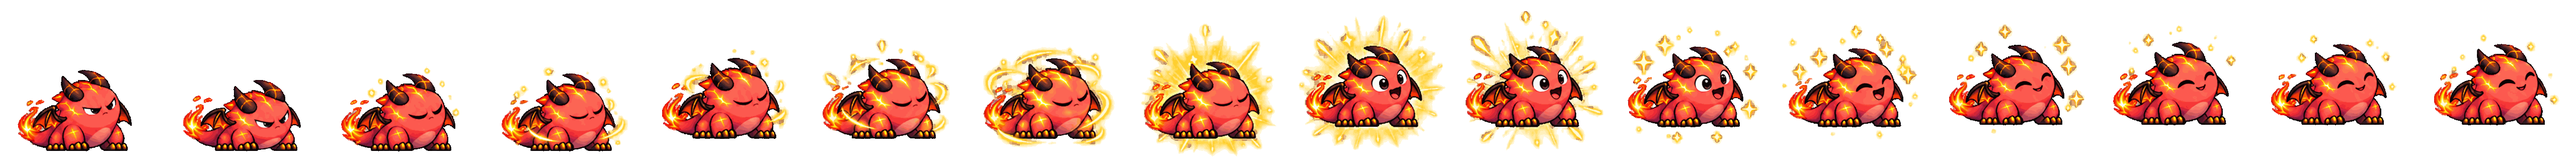
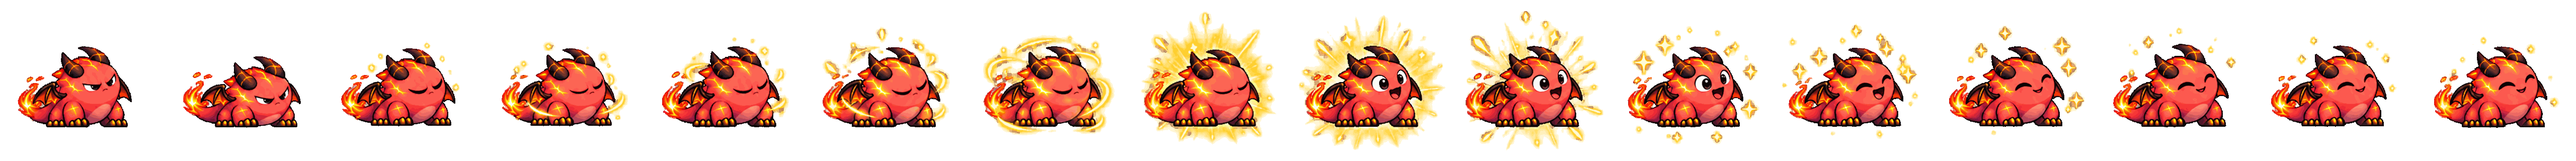
Pin the fireball and the celebration to their own ground line
The Cinderling's fireball climbed 43px over its sixteen frames - the pet
floating up off its own ground line and dropping back when the idle returned.
The cause is in the pack: it arrives as a 4x4 grid, and each row draws the
dragon about 7px higher than the last. Frames inside a row agree to a pixel;
the rows step. The Blazewyrm's celebration has it too, 55px of it, which is
why it ended some 37 CSS px above where it began.

Both sheets are anchored now, and the same check clears the rest: the
Blazewyrm's own fireball drifts 2px, the anchored baby idle 5px, the
Cinderling's celebration 10px. The flame stomp and the flying swoop drift by
design - they rear and land, they fly - and are untouched.

Measure this by cross-correlating each frame's body against the first frame's,
not by its lowest pixel. A lowest pixel is a toe on one frame and a smoke puff
or a ray on the next: it said the celebration's burst frames sat 30px low when
their bodies were exactly in line. Correcting on that reading would have
dragged the burst down and called it a fix.

What steps between rows is corrected; what moves inside a row is left as
drawn. The shifts are applied to the palette indices, so both sheets keep
their palettes untouched and get slightly smaller. Re-measured on screen after
anchoring: the fireball holds its ground line to 1.5 CSS px across the whole
clip, with the median exactly on the idle's; the celebration sits on the
[…]

diff --git a/index.html b/index.html
@@ -1377,7 +1377,7 @@ const SKILLS = {
         order:    [0, 1,2,4,  1,2,4,  1,2,4,  3,5,3,5,  6,  7,  8,  9, 10, 11, 12, 13, 14, 15],
         durations:[380, 300,270,245, 225,205,185, 160,145,130, 185,150,150,270,
                    150,230,260,180,190,260,170,170,190,280],
-        aspect:1.3125, scale:1.23, dx:-5, dy:-6 } },
+        aspect:1.3125, scale:1.23, dx:-5, dy:-4.2 } },
     { id:"fireball", name:"Fireball", ico:"\u{1F525}", stage:2, level:18,
       blurb:"Draws a breath, then spits a packed ball of flame down the road ahead.",
       sprite:{ src:"art/skill-fireball.png",     frames:16, fps:12.5,
@@ -1412,7 +1412,7 @@ const LEVEL_UP_ART = {
   "ember:1": levelUpClip({ src:"art/levelup-cinderling.png", frames:16,
     gather:4, burst:7, aspect:1.3125, scale:1.18, dx:-15, dy:1 }),
   "ember:2": levelUpClip({ src:"art/levelup-blazewyrm.png", frames:16,
-    gather:2, burst:7, aspect:1, scale:1.58, dx:2, dy:-23 })
+    gather:2, burst:7, aspect:1, scale:1.58, dx:2, dy:-1.1 })
 };
 function levelUpArt(speciesId, stage){ return LEVEL_UP_ART[speciesId + ":" + stage] || null; }
 
@@ -2403,7 +2403,7 @@ function spriteConfig(species, stage){
    already has one will happily go on showing the old drawing. Bump this and
    every cache along the way fetches the new file. Only the sheets that ship
    with the app are stamped; a sheet you point at yourself is used verbatim. */
-const ART_VERSION = "7";
+const ART_VERSION = "8";
 function assetURL(src){
   return /^art\//.test(src) ? src + "?v=" + ART_VERSION : src;
 }

diff --git a/demo.html b/demo.html
@@ -22,7 +22,7 @@
   p{color:#8791a8;font-size:14px;line-height:1.65;margin:14px 0 0}
   .pet{
     width:191px;height:132px;margin:24px auto 4px;display:block;
-    background-image:url("art/ember-cinderling.png?v=7");
+    background-image:url("art/ember-cinderling.png?v=8");
     background-size:2292px 132px;          /* 12 frames of 191px */
     background-position:-573px 0;          /* frame 4 */
     background-repeat:no-repeat;

diff --git a/README.md b/README.md
@@ -85,6 +85,20 @@ source cells draw it in a different spot each frame and a pet that wanders
 inside its own box looks like it is hopping about. Anchor on the dragon, not
 on everything opaque: the butterfly is meant to move.
 
+Anchoring is not only an idle's problem. The packs arrive as 4×4 grids, and
+some of them draw each row a little higher than the last — the Cinderling's
+fireball climbs 43px over its sixteen frames, the Blazewyrm's celebration
+55px, which is a pet visibly floating up off its own ground line and then
+dropping back when the idle returns. Measure it by cross-correlating each
+frame's body against the first frame's rather than by its lowest pixel: a
+lowest pixel is a toe on one frame and a smoke puff or a ray on the next,
+while the correlation reports whole-body movement. Its signature is
+unmistakable — every frame inside a row agrees to a pixel, and the rows step.
+Real animation never lines up that neatly, so what steps between rows gets
+corrected and what moves inside a row is left exactly as drawn. A clip whose
+movement is genuine — the flame stomp's rear-and-land, the flying swoop's
+pass — shows no such pattern and must not be touched.
+
  The smoother original it replaced is kept beside it at
 `art/ember-cinderling-original.png` — point the `ember:1` src back at that
 file, with `aspect:1.447, fps:2, scale:1.2` and no `dx`/`dy`, to return to it.
